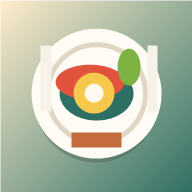
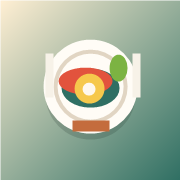
Add files via upload

Changed region(s): [[0.1389, 0.1389, 0.8611, 0.8611]]

diff --git a/styles.css b/styles.css
@@ -209,6 +209,15 @@ textarea { resize: vertical; }
   border-radius: var(--radius);
   font-size: 0.84rem;
 }
+.startup-error {
+  margin-bottom: 16px;
+  padding: 12px 14px;
+  background: #fff4f2;
+  border: 1px solid #ffd0c9;
+  border-radius: var(--radius);
+  color: var(--danger);
+  font-weight: 600;
+}
 .settings-grid { grid-template-columns: repeat(3, minmax(0, 1fr)); }
 .bars { display: grid; gap: 10px; }
 .bar-row { display: grid; grid-template-columns: 130px 1fr 34px; gap: 10px; align-items: center; }